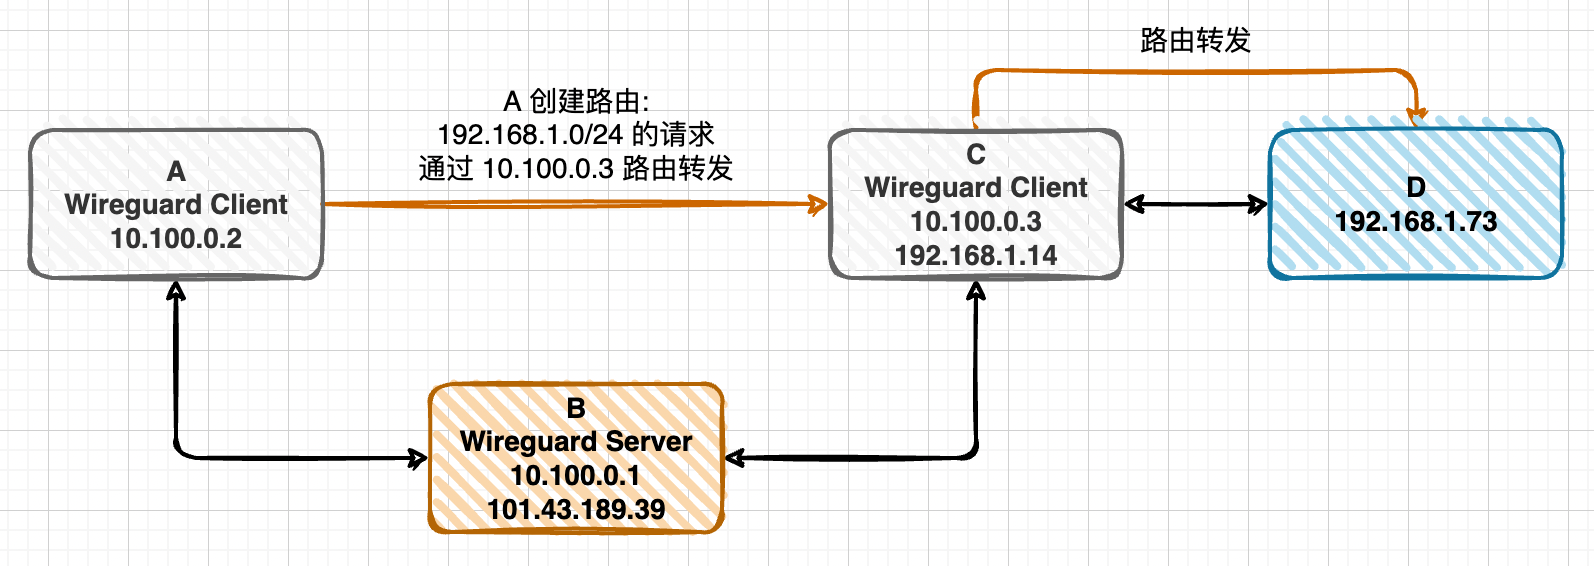
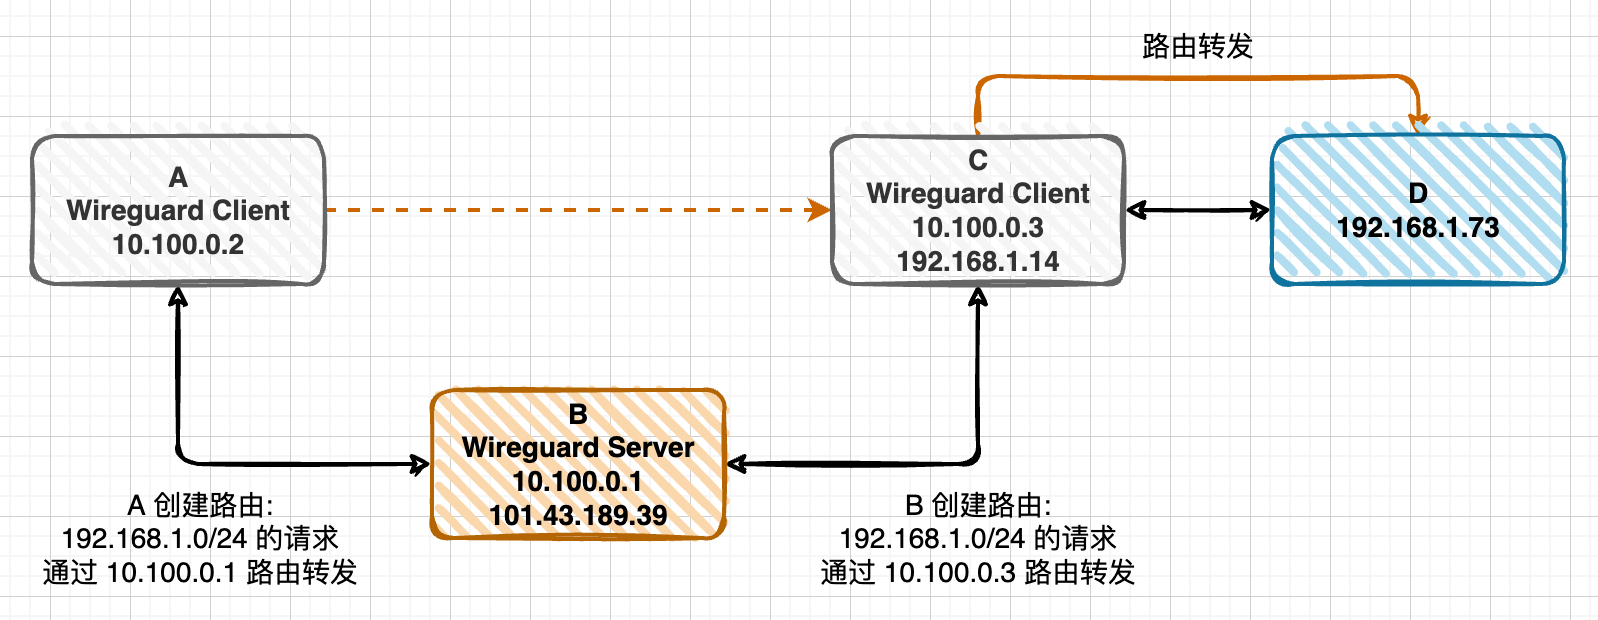
Site updated: 2022-05-06 15:12:57

Changed region(s): [[0.0, 0.03, 1.0, 0.9611], [0.5841, 0.5707, 0.6148, 0.6307]]

diff --git a/mac-vpn-forward/index.html b/mac-vpn-forward/index.html
@@ -17,7 +17,7 @@
 <meta property="og:image" content="http://xtuer.github.io/img/mac/wireguard.png">
 <meta property="og:image" content="http://xtuer.github.io/img/mac/wireguard-zerotier.png">
 <meta property="article:published_time" content="2022-05-04T12:42:49.000Z">
-<meta property="article:modified_time" content="2022-05-05T02:18:48.729Z">
+<meta property="article:modified_time" content="2022-05-06T07:12:43.977Z">
 <meta property="article:author" content="公孙二狗">
 <meta property="article:tag" content="Mac">
 <meta name="twitter:card" content="summary">
@@ -385,21 +385,12 @@
 </ul>
 </li>
 <li>A 和 C 作为 Wireguard Client 运行</li>
-<li>A 和 C 的 IP 已经在配置文件中指定</li>
+<li>A 和 C 的 IP 在配置文件中指定</li>
 <li>配置中的 <strong>AllowedIPs</strong>: Wireguard 启动时用来创建路由，可以是多个，以英文逗号分隔，例如 <strong>10.100.0.0/24,192.168.1.0/24</strong></li>
 </ul>
 </li>
-<li><p>A 创建路由，网关为 C 的 Wireguard Client 的 IP:</p>
-<p>Mac:</p>
-<figure class="highlight shell"><table><tr><td class="gutter"><pre><span class="line">1</span><br><span class="line">2</span><br><span class="line">3</span><br><span class="line">4</span><br><span class="line">5</span><br></pre></td><td class="code"><pre><span class="line"><span class="meta">#</span><span class="bash"> 添加路由</span></span><br><span class="line">sudo route -n add -net 192.168.1.0 -netmask 255.255.255.0 10.100.0.3</span><br><span class="line"><span class="meta"></span></span><br><span class="line"><span class="meta">#</span><span class="bash"> 删除路由</span></span><br><span class="line">sudo route delete -net 192.168.1.0</span><br></pre></td></tr></table></figure></li>
-<li><p>C 路由转发从 Wireguard 网卡发来的 192.168.1.0/24 的请求 (参考上面方案一):</p>
-<ul>
-<li><p>内核开启路由转发</p>
-</li>
-<li><p>防火墙设置:</p>
-<figure class="highlight shell"><table><tr><td class="gutter"><pre><span class="line">1</span><br><span class="line">2</span><br><span class="line">3</span><br><span class="line">4</span><br></pre></td><td class="code"><pre><span class="line"><span class="meta">#</span><span class="bash"> wg0 是 Wireguard 创建的网卡</span></span><br><span class="line">iptables -t nat -A POSTROUTING -o eth0 -j MASQUERADE</span><br><span class="line">iptables -A FORWARD -i eth0 -o wg0 -m state --state RELATED,ESTABLISHED -j ACCEPT</span><br><span class="line">iptables -A FORWARD -i wg0 -o eth0 -j ACCEPT</span><br></pre></td></tr></table></figure></li>
-</ul>
-</li>
+<li><p>详细配置可参考 <a target="_blank" rel="noopener" href="https://devld.me/2020/07/27/wireguard-setup/">使用 WireGuard 无缝接入内网</a>，其中需要注意的是 C 的 PostUp 和 PostDown 可能需要修改为 MASQUERADE 的方式:</p>
+<figure class="highlight ini"><table><tr><td class="gutter"><pre><span class="line">1</span><br><span class="line">2</span><br></pre></td><td class="code"><pre><span class="line"><span class="attr">PostUp</span> = iptables -t nat -A POSTROUTING -s <span class="number">10.100</span>.<span class="number">0.0</span>/<span class="number">24</span> -o eth1 -j MASQUERADE</span><br><span class="line"><span class="attr">PostDown</span> = iptables -t nat -D POSTROUTING -s <span class="number">10.100</span>.<span class="number">0.0</span>/<span class="number">24</span> -o eth1 -j MASQUERADE</span><br></pre></td></tr></table></figure></li>
 </ol>
 <p>此方案优缺点:</p>
 <ul>
@@ -410,6 +401,7 @@
 <li>不支持: 3.10.0-957.el7.x86_64</li>
 <li>即使是 CentOS 7，默认使用的还是 3.10 的内核，可升级内核到 4.0 以后</li>
 <li><a target="_blank" rel="noopener" href="https://eddyemma.com/blog/2018/08/21/%E5%8D%87%E7%BA%A7centos%E5%86%85%E6%A0%B8/">升级 CentOS 内核——Wireguard</a></li>
+<li>启动 Wireguard 时报错: <strong>RNETLINK answers: Operation not supported</strong>，有可能是内核不支持，也可能 most likely the <strong>wireguard</strong> kernel module is not loaded in your system，可参考 <a target="_blank" rel="noopener" href="https://www.ivpn.net/knowledgebase/linux/linux-wireguard-rtnetlink-answers-operation-not-supported/">https://www.ivpn.net/knowledgebase/linux/linux-wireguard-rtnetlink-answers-operation-not-supported/</a></li>
 </ul>
 </li>
 </ul>
@@ -421,15 +413,6 @@
 <li>重载配置文件: <code>wg syncconf wg0 &lt; (wg-quick strip wg0)</code> # 重载配置文件,不影响已有连接</li>
 <li>生成客户端密: <code>wg genkey | tee privatekey-client | wg pubkey &gt; publickey-client</code> </li>
 </ul>
-<p>服务器配置参考:</p>
-<figure class="highlight ini"><table><tr><td class="gutter"><pre><span class="line">1</span><br><span class="line">2</span><br><span class="line">3</span><br><span class="line">4</span><br><span class="line">5</span><br><span class="line">6</span><br><span class="line">7</span><br><span class="line">8</span><br><span class="line">9</span><br><span class="line">10</span><br><span class="line">11</span><br><span class="line">12</span><br><span class="line">13</span><br><span class="line">14</span><br><span class="line">15</span><br><span class="line">16</span><br><span class="line">17</span><br><span class="line">18</span><br></pre></td><td class="code"><pre><span class="line"><span class="section">[Interface]</span></span><br><span class="line"><span class="attr">Address</span> = <span class="number">10.100</span>.<span class="number">0.1</span>/<span class="number">24</span></span><br><span class="line"><span class="attr">SaveConfig</span> = <span class="literal">true</span></span><br><span class="line"><span class="attr">ListenPort</span> = <span class="number">5120</span></span><br><span class="line"><span class="comment"># 服务器的私钥</span></span><br><span class="line"><span class="attr">PrivateKey</span> = yCbsj8Ecyx9ami7HO8OjTG8l3JZsZKHW5TAdVAqXJ1k=</span><br><span class="line"></span><br><span class="line"><span class="attr">PostUp</span>   = iptables -A FORWARD -i %i -j ACCEPT<span class="comment">; iptables -A FORWARD -o %i -j ACCEPT; iptables -t nat -A POSTROUTING -o eth0 -j MASQUERADE</span></span><br><span class="line"><span class="attr">PostDown</span> = iptables -D FORWARD -i %i -j ACCEPT<span class="comment">; iptables -D FORWARD -o %i -j ACCEPT; iptables -t nat -D POSTROUTING -o eth0 -j MASQUERADE</span></span><br><span class="line"></span><br><span class="line"><span class="section">[Peer]</span></span><br><span class="line"><span class="comment"># 客户端的公钥</span></span><br><span class="line"><span class="attr">PublicKey</span> = /skxtMSpnmPrA3nB+N5rgH0Nv3OlBCtShZocsI9zvRM=</span><br><span class="line"><span class="attr">AllowedIPs</span> = <span class="number">10.100</span>.<span class="number">0.2</span>/<span class="number">32</span></span><br><span class="line"></span><br><span class="line"><span class="section">[Peer]</span></span><br><span class="line"><span class="attr">PublicKey</span> = OfX3YoxlIMcFfpdv7BjmHKZP2s+Nnx8uVib6+R/VlhY=</span><br><span class="line"><span class="attr">AllowedIPs</span> = <span class="number">10.100</span>.<span class="number">0.3</span>/<span class="number">32</span></span><br></pre></td></tr></table></figure>
-
-<p>客户端配置参考:</p>
-<figure class="highlight ini"><table><tr><td class="gutter"><pre><span class="line">1</span><br><span class="line">2</span><br><span class="line">3</span><br><span class="line">4</span><br><span class="line">5</span><br><span class="line">6</span><br><span class="line">7</span><br><span class="line">8</span><br><span class="line">9</span><br><span class="line">10</span><br><span class="line">11</span><br><span class="line">12</span><br></pre></td><td class="code"><pre><span class="line"><span class="section">[Interface]</span></span><br><span class="line"><span class="comment"># 客户端的私钥</span></span><br><span class="line"><span class="attr">PrivateKey</span> = gH1Mh2IEyzu7tO+NBfZyc/L9mkpQeiiotu8Vnr+JHXU=</span><br><span class="line"><span class="attr">Address</span> = <span class="number">10.100</span>.<span class="number">0.3</span>/<span class="number">32</span></span><br><span class="line"><span class="attr">DNS</span> = <span class="number">8.8</span>.<span class="number">8.8</span></span><br><span class="line"></span><br><span class="line"><span class="section">[Peer]</span></span><br><span class="line"><span class="comment"># 服务器的公钥</span></span><br><span class="line"><span class="attr">PublicKey</span> = wvUNhRbrR8zfDcOyeEGunn7iTUkQEmFCAnOqnAJdEQE=</span><br><span class="line"><span class="attr">Endpoint</span> = <span class="number">101.43</span>.<span class="number">189.39</span>:<span class="number">5120</span></span><br><span class="line"><span class="attr">AllowedIPs</span> = <span class="number">10.100</span>.<span class="number">0.0</span>/<span class="number">24</span></span><br><span class="line"><span class="attr">PersistentKeepalive</span> = <span class="number">25</span></span><br></pre></td></tr></table></figure>
-
-<blockquote>
-<p>Wireguard 客户端会自动使用配置里的 AllowedIps 创建到 Wireguard 服务器的路由。</p>
-</blockquote>
 <h2 id="方案三、Wireguard-Zerotier"><a href="#方案三、Wireguard-Zerotier" class="headerlink" title="方案三、Wireguard + Zerotier"></a>方案三、Wireguard + Zerotier</h2><p>很不幸，我所使用的环境中 C 和其所在子网内的机器都是 CentOS 7，且内核版本是 3.10.0-957.el7.x86_64，不支持 Wireguard，方案一太慢几乎不可用，内核不支持 Wireguard 导致方案二不可行，后来发现，B 和 C 使用 Zerotier 组网时速度还挺快，于是尝试了下 A 和 B 使用 Wireguard 组网，B 和 C 使用 Zerotier 组网，这样 A 访问 C 时网络延迟在 30ms 左右，竟然还不错。</p>
 <img src="../img/mac/wireguard-zerotier.png">
 

diff --git a/java-lombok/index.html b/java-lombok/index.html
@@ -326,7 +326,7 @@
 
 <p>输出:</p>
 <blockquote>
-<p>Alice<br>Email: <a href="mailto:&#x61;&#108;&#x69;&#x63;&#x65;&#x40;&#x67;&#109;&#x61;&#105;&#x6c;&#x2e;&#x63;&#111;&#x6d;">&#x61;&#108;&#x69;&#x63;&#x65;&#x40;&#x67;&#109;&#x61;&#105;&#x6c;&#x2e;&#x63;&#111;&#x6d;</a></p>
+<p>Alice<br>Email: <a href="mailto:&#x61;&#108;&#x69;&#x63;&#x65;&#x40;&#103;&#109;&#x61;&#x69;&#108;&#46;&#x63;&#x6f;&#109;">&#x61;&#108;&#x69;&#x63;&#x65;&#x40;&#103;&#109;&#x61;&#x69;&#108;&#46;&#x63;&#x6f;&#109;</a></p>
 </blockquote>
 <h2 id="Lombok-插件"><a href="#Lombok-插件" class="headerlink" title="Lombok 插件"></a>Lombok 插件</h2><p>为了让 IDEA 对 Lombok 进行支持，需要安装 Lombok 插件 (Eclipse 也有相应的插件)，否则在 IDEA 里编辑时提示找不到 Getter and Setter，不过编译运行仍然没问题，因为编译阶段会生成它们<br><img src="../img/java/lombok-idea.png"></p>
 <h2 id="不用-Lombok-的-Bean"><a href="#不用-Lombok-的-Bean" class="headerlink" title="不用 Lombok 的 Bean"></a>不用 Lombok 的 Bean</h2><figure class="highlight java"><table><tr><td class="gutter"><pre><span class="line">1</span><br><span class="line">2</span><br><span class="line">3</span><br><span class="line">4</span><br><span class="line">5</span><br><span class="line">6</span><br><span class="line">7</span><br><span class="line">8</span><br><span class="line">9</span><br><span class="line">10</span><br><span class="line">11</span><br><span class="line">12</span><br><span class="line">13</span><br><span class="line">14</span><br><span class="line">15</span><br><span class="line">16</span><br><span class="line">17</span><br><span class="line">18</span><br><span class="line">19</span><br><span class="line">20</span><br><span class="line">21</span><br><span class="line">22</span><br><span class="line">23</span><br><span class="line">24</span><br><span class="line">25</span><br><span class="line">26</span><br><span class="line">27</span><br><span class="line">28</span><br><span class="line">29</span><br><span class="line">30</span><br><span class="line">31</span><br><span class="line">32</span><br><span class="line">33</span><br><span class="line">34</span><br><span class="line">35</span><br><span class="line">36</span><br><span class="line">37</span><br><span class="line">38</span><br></pre></td><td class="code"><pre><span class="line"><span class="keyword">public</span> <span class="class"><span class="keyword">class</span> <span class="title">User</span> </span>&#123;</span><br><span class="line">    <span class="keyword">private</span> <span class="keyword">int</span> id;</span><br><span class="line">    <span class="keyword">private</span> String username;</span><br><span class="line">    <span class="keyword">private</span> String email;</span><br><span class="line"></span><br><span class="line">    <span class="function"><span class="keyword">public</span> <span class="title">User</span><span class="params">()</span> </span>&#123;</span><br><span class="line">    &#125;</span><br><span class="line"></span><br><span class="line">    <span class="function"><span class="keyword">public</span> <span class="title">User</span><span class="params">(<span class="keyword">int</span> id, String username, String email)</span> </span>&#123;</span><br><span class="line">        <span class="keyword">this</span>.id = id;</span><br><span class="line">        <span class="keyword">this</span>.username = username;</span><br><span class="line">        <span class="keyword">this</span>.email = email;</span><br><span class="line">    &#125;</span><br><span class="line"></span><br><span class="line">    <span class="function"><span class="keyword">public</span> <span class="keyword">int</span> <span class="title">getId</span><span class="params">()</span> </span>&#123;</span><br><span class="line">        <span class="keyword">return</span> id;</span><br><span class="line">    &#125;</span><br><span class="line"></span><br><span class="line">    <span class="function"><span class="keyword">public</span> <span class="keyword">void</span> <span class="title">setId</span><span class="params">(<span class="keyword">int</span> id)</span> </span>&#123;</span><br><span class="line">        <span class="keyword">this</span>.id = id;</span><br><span class="line">    &#125;</span><br><span class="line"></span><br><span class="line">    <span class="function"><span class="keyword">public</span> String <span class="title">getUsername</span><span class="params">()</span> </span>&#123;</span><br><span class="line">        <span class="keyword">return</span> username;</span><br><span class="line">    &#125;</span><br><span class="line"></span><br><span class="line">    <span class="function"><span class="keyword">public</span> <span class="keyword">void</span> <span class="title">setUsername</span><span class="params">(String username)</span> </span>&#123;</span><br><span class="line">        <span class="keyword">this</span>.username = username;</span><br><span class="line">    &#125;</span><br><span class="line"></span><br><span class="line">    <span class="function"><span class="keyword">public</span> String <span class="title">getEmail</span><span class="params">()</span> </span>&#123;</span><br><span class="line">        <span class="keyword">return</span> email;</span><br><span class="line">    &#125;</span><br><span class="line"></span><br><span class="line">    <span class="function"><span class="keyword">public</span> <span class="keyword">void</span> <span class="title">setEmail</span><span class="params">(String email)</span> </span>&#123;</span><br><span class="line">        <span class="keyword">this</span>.email = email;</span><br><span class="line">    &#125;</span><br><span class="line">&#125;</span><br></pre></td></tr></table></figure>

diff --git a/qtbook-db-util/index.html b/qtbook-db-util/index.html
@@ -378,7 +378,7 @@
 <td align="center">2</td>
 <td>Bob</td>
 <td>Passw0rd</td>
-<td><a href="mailto:&#x62;&#x6f;&#x62;&#64;&#103;&#109;&#97;&#x69;&#x6c;&#46;&#x63;&#x6f;&#109;">&#x62;&#x6f;&#x62;&#64;&#103;&#109;&#97;&#x69;&#x6c;&#46;&#x63;&#x6f;&#109;</a></td>
+<td><a href="mailto:&#x62;&#111;&#98;&#x40;&#103;&#109;&#x61;&#x69;&#x6c;&#46;&#99;&#111;&#x6d;">&#x62;&#111;&#98;&#x40;&#103;&#109;&#x61;&#x69;&#x6c;&#46;&#99;&#111;&#x6d;</a></td>
 <td>NULL</td>
 </tr>
 <tr>
@@ -400,7 +400,7 @@
 </li>
 <li><p>查找 Alice 的所有信息，如名字，密码，邮件等<br>QMap((“email”, QVariant(QString, “”) ) ( “id” ,  QVariant(int, 1) ) ( “mobile” ,  QVariant(QString, “”) ) ( “password” ,  QVariant(QString, “passw0rd”) ) ( “username” ,  QVariant(QString, “Alice”) ) )  </p>
 </li>
-<li><p>查找 Alice 和 Bob 的所有信息，如名字，密码，邮件等<br>(QMap((“email”, QVariant(QString, “”) ) ( “id” ,  QVariant(int, 1) ) ( “mobile” ,  QVariant(QString, “”) ) ( “password” ,  QVariant(QString, “passw0rd”) ) ( “username” ,  QVariant(QString, “Alice”) ) ) , QMap((“email”, QVariant(QString, “<a href="mailto:&#98;&#111;&#98;&#x40;&#x67;&#109;&#x61;&#x69;&#108;&#46;&#99;&#x6f;&#x6d;">&#98;&#111;&#98;&#x40;&#x67;&#109;&#x61;&#x69;&#108;&#46;&#99;&#x6f;&#x6d;</a>“) ) ( “id” ,  QVariant(int, 2) ) ( “mobile” ,  QVariant(QString, “”) ) ( “password” ,  QVariant(QString, “Passw0rd”) ) ( “username” ,  QVariant(QString, “Bob”) ) ) )  </p>
+<li><p>查找 Alice 和 Bob 的所有信息，如名字，密码，邮件等<br>(QMap((“email”, QVariant(QString, “”) ) ( “id” ,  QVariant(int, 1) ) ( “mobile” ,  QVariant(QString, “”) ) ( “password” ,  QVariant(QString, “passw0rd”) ) ( “username” ,  QVariant(QString, “Alice”) ) ) , QMap((“email”, QVariant(QString, “<a href="mailto:&#x62;&#x6f;&#98;&#64;&#103;&#x6d;&#97;&#x69;&#108;&#x2e;&#99;&#111;&#x6d;">&#x62;&#x6f;&#98;&#64;&#103;&#x6d;&#97;&#x69;&#108;&#x2e;&#99;&#111;&#x6d;</a>“) ) ( “id” ,  QVariant(int, 2) ) ( “mobile” ,  QVariant(QString, “”) ) ( “password” ,  QVariant(QString, “Passw0rd”) ) ( “username” ,  QVariant(QString, “Bob”) ) ) )  </p>
 </li>
 <li><p>查找 Alice 和 Bob 的密码<br>(“passw0rd”, “Passw0rd”)  </p>
 </li>
@@ -706,7 +706,7 @@
 
 <p><code>程序输出</code>：</p>
 <blockquote>
-<p>“加载 SQL 文件 resources/sql/user.sql”<br>“加载 SQL 文件 resources/sql/product.sql”<br>“Bob”<br>“ID: 2, Username: Bob, Password: Passw0rd, Email: <a href="mailto:&#98;&#x6f;&#98;&#x40;&#x67;&#109;&#97;&#105;&#108;&#x2e;&#x63;&#x6f;&#x6d;">&#98;&#x6f;&#98;&#x40;&#x67;&#109;&#97;&#105;&#108;&#x2e;&#x63;&#x6f;&#x6d;</a>, Mobile: “<br>Update:  true<br>“ID: 1, Username: Alice, Password: passw0rd, Email: , Mobile: “<br>“ID: 2, Username: Bob, Password: Passw0rd, Email: <a href="mailto:&#x62;&#x6f;&#x62;&#x40;&#x67;&#109;&#x61;&#105;&#108;&#46;&#x63;&#111;&#x6d;">&#x62;&#x6f;&#x62;&#x40;&#x67;&#109;&#x61;&#105;&#108;&#46;&#x63;&#111;&#x6d;</a>, Mobile: “<br>“ID: 3, Username: Josh, Password: Pa88w0rd, Email: , Mobile: “  </p>
+<p>“加载 SQL 文件 resources/sql/user.sql”<br>“加载 SQL 文件 resources/sql/product.sql”<br>“Bob”<br>“ID: 2, Username: Bob, Password: Passw0rd, Email: <a href="mailto:&#x62;&#111;&#x62;&#x40;&#x67;&#109;&#x61;&#105;&#108;&#x2e;&#99;&#x6f;&#x6d;">&#x62;&#111;&#x62;&#x40;&#x67;&#109;&#x61;&#105;&#108;&#x2e;&#99;&#x6f;&#x6d;</a>, Mobile: “<br>Update:  true<br>“ID: 1, Username: Alice, Password: passw0rd, Email: , Mobile: “<br>“ID: 2, Username: Bob, Password: Passw0rd, Email: <a href="mailto:&#98;&#111;&#98;&#x40;&#x67;&#x6d;&#97;&#x69;&#x6c;&#46;&#99;&#x6f;&#109;">&#98;&#111;&#98;&#x40;&#x67;&#x6d;&#97;&#x69;&#x6c;&#46;&#99;&#x6f;&#109;</a>, Mobile: “<br>“ID: 3, Username: Josh, Password: Pa88w0rd, Email: , Mobile: “  </p>
 </blockquote>
 <h2 id="8-思考"><a href="#8-思考" class="headerlink" title="8. 思考"></a>8. 思考</h2><ol>
 <li>上面的例子中，映射成对象的时候，表 user 对应类 User 的对象。想一下，查询到的结果能不能不只是映射到简单成员变量？如果成员变量是另一个类的对象时怎么做？</li>

diff --git a/java-mybatis-collection/index.html b/java-mybatis-collection/index.html
@@ -311,21 +311,21 @@
 </thead>
 <tbody><tr>
 <td>Biao</td>
-<td><a href="mailto:&#98;&#105;&#x61;&#111;&#x40;&#x67;&#x6d;&#x61;&#x69;&#x6c;&#x2e;&#x63;&#x6f;&#109;">&#98;&#105;&#x61;&#111;&#x40;&#x67;&#x6d;&#x61;&#x69;&#x6c;&#x2e;&#x63;&#x6f;&#109;</a></td>
+<td><a href="mailto:&#98;&#105;&#x61;&#x6f;&#x40;&#103;&#109;&#97;&#105;&#x6c;&#46;&#x63;&#x6f;&#x6d;">&#98;&#105;&#x61;&#x6f;&#x40;&#103;&#109;&#97;&#105;&#x6c;&#46;&#x63;&#x6f;&#x6d;</a></td>
 <td>china</td>
 <td>北京</td>
 <td>天河街</td>
 </tr>
 <tr>
 <td>Biao</td>
-<td><a href="mailto:&#98;&#x69;&#x61;&#111;&#64;&#x69;&#x63;&#108;&#111;&#117;&#100;&#46;&#x63;&#111;&#x6d;">&#98;&#x69;&#x61;&#111;&#64;&#x69;&#x63;&#108;&#111;&#117;&#100;&#46;&#x63;&#111;&#x6d;</a></td>
+<td><a href="mailto:&#98;&#x69;&#97;&#x6f;&#64;&#105;&#99;&#108;&#111;&#x75;&#x64;&#x2e;&#x63;&#x6f;&#109;">&#98;&#x69;&#97;&#x6f;&#64;&#105;&#99;&#108;&#111;&#x75;&#x64;&#x2e;&#x63;&#x6f;&#109;</a></td>
 <td>Deutschland</td>
 <td>Braunschweig</td>
 <td>Wiesenstrasse</td>
 </tr>
 <tr>
 <td>Alice</td>
-<td><a href="mailto:&#97;&#108;&#105;&#x63;&#101;&#x40;&#103;&#x6d;&#97;&#x69;&#x6c;&#x2e;&#x63;&#x6f;&#x6d;">&#97;&#108;&#105;&#x63;&#101;&#x40;&#103;&#x6d;&#97;&#x69;&#x6c;&#x2e;&#x63;&#x6f;&#x6d;</a></td>
+<td><a href="mailto:&#x61;&#108;&#105;&#99;&#101;&#64;&#x67;&#109;&#97;&#105;&#x6c;&#46;&#x63;&#111;&#109;">&#x61;&#108;&#105;&#99;&#101;&#64;&#x67;&#109;&#97;&#105;&#x6c;&#46;&#x63;&#111;&#109;</a></td>
 <td>china</td>
 <td>河北</td>
 <td>鼓楼大街</td>

diff --git a/page/12/index.html b/page/12/index.html
@@ -377,21 +377,21 @@
 </thead>
 <tbody><tr>
 <td>Biao</td>
-<td><a href="mailto:&#98;&#105;&#x61;&#111;&#x40;&#x67;&#x6d;&#x61;&#x69;&#x6c;&#x2e;&#x63;&#x6f;&#109;">&#98;&#105;&#x61;&#111;&#x40;&#x67;&#x6d;&#x61;&#x69;&#x6c;&#x2e;&#x63;&#x6f;&#109;</a></td>
+<td><a href="mailto:&#98;&#105;&#x61;&#x6f;&#x40;&#103;&#109;&#97;&#105;&#x6c;&#46;&#x63;&#x6f;&#x6d;">&#98;&#105;&#x61;&#x6f;&#x40;&#103;&#109;&#97;&#105;&#x6c;&#46;&#x63;&#x6f;&#x6d;</a></td>
 <td>china</td>
 <td>北京</td>
 <td>天河街</td>
 </tr>
 <tr>
 <td>Biao</td>
-<td><a href="mailto:&#98;&#x69;&#x61;&#111;&#64;&#x69;&#x63;&#108;&#111;&#117;&#100;&#46;&#x63;&#111;&#x6d;">&#98;&#x69;&#x61;&#111;&#64;&#x69;&#x63;&#108;&#111;&#117;&#100;&#46;&#x63;&#111;&#x6d;</a></td>
+<td><a href="mailto:&#98;&#x69;&#97;&#x6f;&#64;&#105;&#99;&#108;&#111;&#x75;&#x64;&#x2e;&#x63;&#x6f;&#109;">&#98;&#x69;&#97;&#x6f;&#64;&#105;&#99;&#108;&#111;&#x75;&#x64;&#x2e;&#x63;&#x6f;&#109;</a></td>
 <td>Deutschland</td>
 <td>Braunschweig</td>
 <td>Wiesenstrasse</td>
 </tr>
 <tr>
 <td>Alice</td>
-<td><a href="mailto:&#97;&#108;&#105;&#x63;&#101;&#x40;&#103;&#x6d;&#97;&#x69;&#x6c;&#x2e;&#x63;&#x6f;&#x6d;">&#97;&#108;&#105;&#x63;&#101;&#x40;&#103;&#x6d;&#97;&#x69;&#x6c;&#x2e;&#x63;&#x6f;&#x6d;</a></td>
+<td><a href="mailto:&#x61;&#108;&#105;&#99;&#101;&#64;&#x67;&#109;&#97;&#105;&#x6c;&#46;&#x63;&#111;&#109;">&#x61;&#108;&#105;&#99;&#101;&#64;&#x67;&#109;&#97;&#105;&#x6c;&#46;&#x63;&#111;&#109;</a></td>
 <td>china</td>
 <td>河北</td>
 <td>鼓楼大街</td>

diff --git a/git-tips/index.html b/git-tips/index.html
@@ -21,9 +21,9 @@
 <meta property="article:published_time" content="2016-07-10T04:01:44.000Z">
 <meta property="article:modified_time" content="2022-03-29T12:54:23.101Z">
 <meta property="article:author" content="公孙二狗">
+<meta property="article:tag" content="Mac">
 <meta property="article:tag" content="Java">
 <meta property="article:tag" content="Util">
-<meta property="article:tag" content="Mac">
 <meta name="twitter:card" content="summary">
 <meta name="twitter:image" content="http://xtuer.github.io/img/git/git-1.jpg">
   

diff --git a/misc-dubbo-hello-world/index.html b/misc-dubbo-hello-world/index.html
@@ -19,8 +19,8 @@
 <meta property="article:published_time" content="2017-04-11T23:23:38.000Z">
 <meta property="article:modified_time" content="2021-12-02T22:29:07.164Z">
 <meta property="article:author" content="公孙二狗">
-<meta property="article:tag" content="Java">
 <meta property="article:tag" content="Misc">
+<meta property="article:tag" content="Java">
 <meta name="twitter:card" content="summary">
 <meta name="twitter:image" content="http://xtuer.github.io/img/misc/dubbo-architecture-roadmap.jpg">
   

diff --git a/misc-index/index.html b/misc-index/index.html
@@ -16,8 +16,8 @@
 <meta property="article:published_time" content="2016-06-29T02:06:53.000Z">
 <meta property="article:modified_time" content="2021-12-02T22:29:07.165Z">
 <meta property="article:author" content="公孙二狗">
-<meta property="article:tag" content="Index">
 <meta property="article:tag" content="Misc">
+<meta property="article:tag" content="Index">
 <meta name="twitter:card" content="summary">
   
     <link rel="alternative" href="/atom.xml" title="公孙二狗" type="application/atom+xml">

diff --git a/ffmpeg/index.html b/ffmpeg/index.html
@@ -16,8 +16,8 @@
 <meta property="article:published_time" content="2019-08-11T08:59:07.000Z">
 <meta property="article:modified_time" content="2021-12-02T22:29:07.153Z">
 <meta property="article:author" content="公孙二狗">
-<meta property="article:tag" content="Java">
 <meta property="article:tag" content="Misc">
+<meta property="article:tag" content="Java">
 <meta name="twitter:card" content="summary">
   
     <link rel="alternative" href="/atom.xml" title="公孙二狗" type="application/atom+xml">

diff --git a/misc-mqtt/index.html b/misc-mqtt/index.html
@@ -16,8 +16,8 @@
 <meta property="article:published_time" content="2016-11-28T05:58:53.000Z">
 <meta property="article:modified_time" content="2021-12-02T22:29:07.166Z">
 <meta property="article:author" content="公孙二狗">
-<meta property="article:tag" content="Util">
 <meta property="article:tag" content="Misc">
+<meta property="article:tag" content="Util">
 <meta name="twitter:card" content="summary">
   
     <link rel="alternative" href="/atom.xml" title="公孙二狗" type="application/atom+xml">

diff --git a/misc-spring-groovy/index.html b/misc-spring-groovy/index.html
@@ -16,8 +16,8 @@
 <meta property="article:published_time" content="2016-11-27T07:27:06.000Z">
 <meta property="article:modified_time" content="2021-12-02T22:29:07.166Z">
 <meta property="article:author" content="公孙二狗">
-<meta property="article:tag" content="Util">
 <meta property="article:tag" content="Misc">
+<meta property="article:tag" content="Util">
 <meta name="twitter:card" content="summary">
   
     <link rel="alternative" href="/atom.xml" title="公孙二狗" type="application/atom+xml">

diff --git a/misc-tio-websocket/index.html b/misc-tio-websocket/index.html
@@ -16,8 +16,8 @@
 <meta property="article:published_time" content="2019-01-06T04:41:33.000Z">
 <meta property="article:modified_time" content="2021-12-02T22:29:07.166Z">
 <meta property="article:author" content="公孙二狗">
-<meta property="article:tag" content="Java">
 <meta property="article:tag" content="Misc">
+<meta property="article:tag" content="Java">
 <meta name="twitter:card" content="summary">
   
     <link rel="alternative" href="/atom.xml" title="公孙二狗" type="application/atom+xml">
